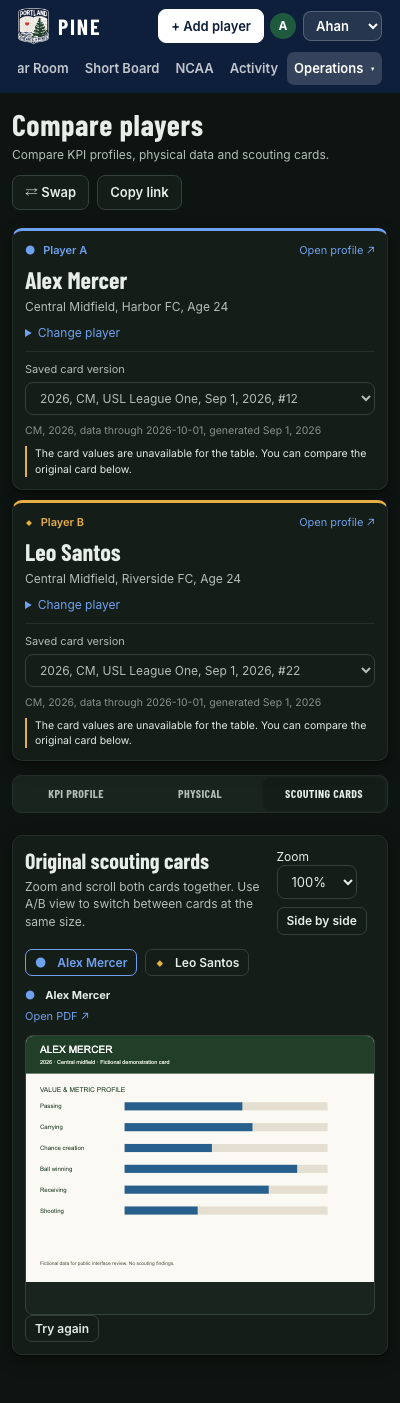
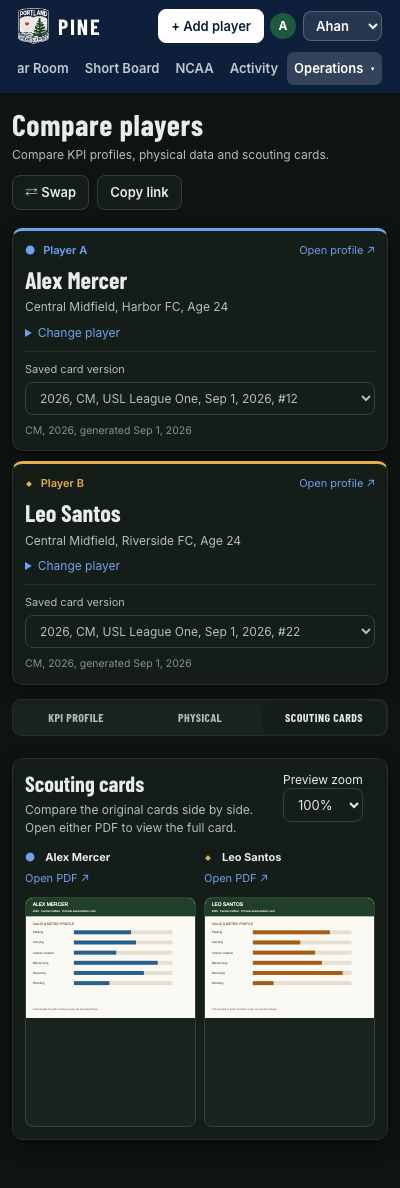
Keep scouting comparisons to original cards side by side

Changed region(s): [[0.0, 0.0, 1.0, 0.9655], [0.57, 0.4049, 0.6, 0.4672]]

diff --git a/public/styles.css b/public/styles.css
@@ -1264,13 +1264,12 @@ details[open] > summary .kpi-chev { transform: rotate(45deg); }
 .cmp-card-caption { display: flex; align-items: center; gap: 5px; margin-bottom: 10px; font-size: 12px; }
 .cmp-card-caption a { margin-left: auto; font-size: 11px; }
 .cmp-card-scroll { overflow: auto; height: 400px; border: 1px solid var(--line-2); border-radius: 8px; background: var(--surface-2); }
+.cmp-card-scroll iframe { display: block; width: 100%; height: 100%; border: 0; background: var(--surface); }
+.cmp-card-preview { min-width: 0; }
+.cmp-card-caption b { overflow-wrap: anywhere; }
 .cmp-card-scroll img { width: var(--cmp-zoom); max-width: none; display: block; }
 .cmp-card-unavailable { padding: 25px; color: var(--ink-2); font-size: 12px; }
 .cmp-card-viewer .row { font-size: 12px; }
-.cmp-card-flip { display: flex; gap: 8px; margin-bottom: 12px; }
-.cmp-card-flip button[aria-pressed=true] { border-color: var(--cmp-color); color: var(--cmp-color); }
-.cmp-flip-mode .cmp-card-pair { grid-template-columns: minmax(0, 1fr); }
-.cmp-flip-mode .cmp-card-scroll { height: 650px; }
 @media (max-width: 1000px) {
   .cmp-row { grid-template-columns: minmax(135px, 1fr) 68px 68px minmax(115px, 1fr) 86px 12px; gap: 10px; }
   .cmp-context { grid-template-columns: minmax(0, 1fr); }
@@ -1313,74 +1312,6 @@ details[open] > summary .kpi-chev { transform: rotate(45deg); }
   .cmp-card-caption { flex-wrap: wrap; font-size: 11px; }
   .cmp-card-caption a { width: 100%; margin-left: 0; }
   .cmp-card-scroll { height: 230px; }
-  .cmp-flip-mode .cmp-card-scroll { height: min(440px, 70vw); }
 }
 
 @media (max-width: 450px) { .cmp-context { grid-template-columns: minmax(0, 1fr); } }
-
-/* Saved scouting cards keep their value matrix and whole scouting sections. */
-.cmp-scout-legend { display: grid; grid-template-columns: repeat(2, minmax(0, 1fr)); gap: 12px; background: var(--surface); padding: 10px 12px; border: 1px solid var(--line); border-radius: 7px; margin-bottom: 14px; z-index: 4; }
-.cmp-scout-card-sections > .cmp-scout-legend { position: sticky; top: var(--cmp-top, 54px); }
-.cmp-scout-legend small { display: inline; color: var(--muted); margin-left: 8px; font-size: 11px; }
-.cmp-scout-value-block { padding: 14px; background: var(--surface-2); border: 1px solid var(--line); border-top: 3px solid var(--pine); border-radius: 8px; margin-bottom: 18px; }
-.cmp-scout-values { border-collapse: separate; border-spacing: 8px; width: 100%; table-layout: fixed; }
-.cmp-scout-values th { font: 600 17px/1.2 var(--disp); text-align: center; color: var(--ink-2); padding: 0 0 5px; }
-.cmp-scout-values th:first-child { width: 100px; text-align: left; color: var(--ink); }
-.cmp-scout-values tbody th { font-size: 22px; }
-.cmp-scout-values td { text-align: center; vertical-align: middle; border: 1px solid var(--line); border-radius: 7px; background: var(--surface); padding: 10px; }
-.cmp-scout-value-pair { display: grid; grid-template-columns: repeat(2, minmax(0, 1fr)); gap: 10px; }
-.cmp-scout-score { display: block; text-align: center; min-width: 0; }
-.cmp-scout-score-label { display: block; font-size: 10px; color: var(--cmp-color); margin-bottom: 3px; }
-.cmp-scout-score .cmp-symbol { margin-right: 2px; }
-.cmp-scout-score .cmp-value { font-size: 25px; }
-.cmp-scout-score .cmp-na { font-size: 10px; overflow-wrap: anywhere; }
-.cmp-scout-value-block .cmp-gap { position: static; margin-top: 8px; font-size: 11px; padding: 3px 7px; }
-.cmp-scout-additional { display: flex; flex-wrap: wrap; gap: 12px; padding: 10px 8px 0; }
-.cmp-scout-additional > div { display: flex; align-items: center; gap: 16px; font-size: 12px; }
-.cmp-scout-additional h3 { font-size: 12px; font-weight: 600; }
-.cmp-scout-additional .cmp-scout-value-pair { min-width: 120px; }
-.cmp-scout-additional .cmp-gap { margin-top: 0; }
-.cmp-scout-sections { columns: 2; column-gap: 16px; }
-.cmp-scout-section { break-inside: avoid; margin-bottom: 16px; border: 1px solid var(--line); border-radius: 8px; overflow: hidden; min-width: 0; }
-.cmp-scout-section h3 { font: 600 20px/1.25 var(--disp); padding: 12px; background: var(--surface-2); border-bottom: 1px solid var(--line); }
-.cmp-scout-metric, .cmp-scout-section-columns { display: grid; grid-template-columns: minmax(100px, 1fr) 82px 82px 78px; gap: 10px; align-items: center; padding: 12px; }
-.cmp-scout-section-columns { font-size: 11px; color: var(--ink-2); border-bottom: 1px solid var(--line); padding-top: 8px; padding-bottom: 8px; text-align: center; }
-.cmp-scout-section-columns > span:first-child { text-align: left; }
-.cmp-scout-section-columns small { display: block; font-size: 9px; color: var(--muted); margin-top: 3px; }
-.cmp-scout-metric { border-bottom: 1px solid var(--line); }
-.cmp-scout-metric:last-child { border-bottom: 0; }
-.cmp-scout-metric .cmp-metric b { font-size: 12px; }
-.cmp-scout-metric .cmp-value { font-size: 23px; }
-.cmp-scout-metric .cmp-gap { position: static; font-size: 11px; padding: 4px 6px; }
-.cmp-scout-metric .cmp-scout-score-label { display: none; }
-.cmp-scout-mini { display: block; height: 5px; margin: 7px 3px 0; border-radius: 2px; background: var(--none-bg); }
-.cmp-scout-mini i { display: block; height: 100%; border-radius: 2px; background: var(--cmp-color); opacity: .7; }
-@media (max-width: 1100px) {
-  .cmp-scout-metric, .cmp-scout-section-columns { grid-template-columns: minmax(80px, 1fr) 58px 58px 66px; gap: 8px; }
-}
-@media (max-width: 850px) {
-  .cmp-scout-sections { columns: 1; }
-  .cmp-scout-metric, .cmp-scout-section-columns { grid-template-columns: minmax(100px, 1fr) 82px 82px 78px; }
-}
-@media (max-width: 700px) {
-  .cmp-scout-legend { padding: 10px; gap: 8px; }
-  .cmp-scout-legend small { display: block; margin-left: 0; margin-top: 3px; }
-  .cmp-scout-value-block { padding: 8px 2px; }
-  .cmp-scout-values { border-spacing: 4px 8px; }
-  .cmp-scout-values th { font-size: 15px; }
-  .cmp-scout-values th:first-child { width: 48px; }
-  .cmp-scout-values tbody th { font-size: 18px; }
-  .cmp-scout-values td { padding: 8px 3px; }
-  .cmp-scout-value-pair { gap: 3px; }
-  .cmp-scout-value-block .cmp-value { font-size: 22px; }
-  .cmp-scout-value-block .cmp-gap { font-size: 10px; gap: 2px; padding: 3px 4px; }
-  .cmp-scout-score-label { font-size: 9px; }
-  .cmp-scout-additional { padding: 8px 6px 2px; }
-  .cmp-scout-additional > div { flex-wrap: wrap; gap: 8px; }
-  .cmp-scout-metric { position: relative; grid-template-columns: repeat(2, minmax(0, 1fr)); gap: 10px; }
-  .cmp-scout-metric .cmp-metric { grid-column: 1 / -1; padding-right: 80px; min-height: 22px; }
-  .cmp-scout-metric .cmp-gap { position: absolute; top: 12px; right: 12px; }
-  .cmp-scout-metric .cmp-scout-score-label { display: block; }
-  .cmp-scout-metric .cmp-scout-score { padding: 6px; background: color-mix(in srgb, var(--cmp-color) 5%, var(--surface)); border-radius: 6px; }
-  .cmp-scout-section-columns { display: none; }
-}

diff --git a/scripts/comparison.test.js b/scripts/comparison.test.js
@@ -1,16 +1,12 @@
 import test from 'node:test';
 import assert from 'node:assert/strict';
 import { parseComparison, comparisonPath, mergeRows, gap, orderRows, choosePair, kpiComparable, kpiRows,
-  physicalComparable, physicalRows, scoutingComparable, scoutingRows, scoutingSections } from '../public/comparison-data.js';
+  physicalComparable, physicalRows } from '../public/comparison-data.js';
 
 const metric = (id, percentile, value = 0) => ({ id, label: id, percentile, value, direction: 'higher' });
 const kpi = () => ({ position: 'MID', iteration: { id: 1916, season: '2026' }, benchmark_competitions: ['USL League One', 'USL Championship'], min_share_used: 5,
   phases: [{ id: 'build', name: 'On-Ball' }], categories: [{ name: 'Distribution', label: 'Passing', phase: 'build', percentile: 82,
     components: [{ metric: 'failed_passes', label: 'Failed passes', kind: 'mistake', inverted: true, value: 0, percentile: 90 }] }] });
-const snapshot = () => ({ data_as_of: '2026-10-01', render_input: { schema_version: 16, subject: { season: 2026, league: 'USL1', profiles: [{ group: 'CM',
-  percentiles: { IMPECT_SCORE_PXT: 0 }, grid: [{ metric: 'TEST', name: 'Passing', bucket: 'passing', direction: 'lower', value: 0, percentile: 90, rare: false },
-    { metric: 'RARE', name: 'Rare metric', bucket: 'shooting', direction: 'higher', value: 0, percentile: 99, rare: true }, { film: 'Watch film', name: 'Film' }] }] },
-  value: { PxT: ['IMPECT_SCORE_PXT'] }, grid: { source: '/source/metric_grid.yml', ledger: 'ledger.csv' }, provenance: { sha256: { '/source/metric_grid.yml': 'a'.repeat(64) } } } });
 
 test('comparison links round trip independent selections and encoded physical keys', () => {
   const state = { ids: [1, 2], tab: 'physical', sort: 'close', f0: 'A. Example|Harbor|USL1|2026', f1: 'name & club/2025', k0: '1916', p0: 'MID' };
@@ -18,6 +14,10 @@ test('comparison links round trip independent selections and encoded physical ke
   assert.deepEqual(parseComparison('7,7').ids, [7, null]);
   assert.deepEqual(parseComparison('bad,-2?tab=bad&sort=wrong').ids, [null, null]);
   assert.equal(parseComparison('1,2?tab=bad').tab, 'kpi');
+  const cards = parseComparison('1,2?tab=card&c0=11&c1=22&sort=gap');
+  assert.equal(cards.sort, 'phase');
+  assert.equal(cards.c0, '11'); assert.equal(cards.c1, '22');
+  assert.deepEqual(parseComparison(comparisonPath(cards).replace('#/compare/', '')), cards);
 });
 
 test('alignment uses exact source identity, preserves zeros and puts missing gaps last', () => {
@@ -63,58 +63,4 @@ test('physical metrics align by source ID across reordered metadata; differing o
   assert.equal(a[0].value, 0); assert.equal(a[1].percentile, null);
   assert.equal(physicalComparable(row, row), true);
   for (const changes of [{ league: 'MLSNP' }, { season: '2025' }, { grp: 'FB' }, { pool: 31 }, { pool: 5 }]) assert.equal(physicalComparable(row, { ...row, ...changes }), false);
-});
-
-test('scouting comparisons retain original values, suppress rare ranks and reject unsupported contexts', () => {
-  const a = snapshot(), b = snapshot();
-  assert.equal(scoutingComparable(a, b), true);
-  const rows = scoutingRows(a);
-  assert.equal(rows.length, 3); assert.equal(rows[0].percentile, 0); assert.equal(rows[1].value, 0);
-  assert.equal(rows[2].percentile, null); assert.equal(rows[2].rare, true);
-  for (const edit of [x => x.render_input.schema_version++, x => x.data_as_of = '2026-09-01', x => x.render_input.subject.league = 'USLC',
-    x => x.render_input.subject.profiles[0].group = 'W', x => x.render_input.grid.ledger = 'other.csv', x => x.render_input.provenance.sha256 = {}]) {
-    const other = snapshot(); edit(other); assert.equal(scoutingComparable(a, other), false);
-  }
-  const unknown = snapshot(); unknown.render_input.schema_version = 99;
-  assert.deepEqual(scoutingRows(unknown), []);
-  assert.equal(scoutingComparable(a, null), false);
-  const missing = snapshot(); delete missing.render_input.subject.league;
-  assert.equal(scoutingComparable(missing, structuredClone(missing)), false);
-  assert.equal(kpiComparable({}, {}), false);
-  assert.equal(physicalComparable({}, {}), false);
-});
-
-test('saved card value tiles keep their scoring system and phase, including an existing open play rank', () => {
-  const card = snapshot(), r = card.render_input;
-  r.value = { PxT: ['overall', 'attack', 'defend'], Packing: ['packing'] };
-  r.subject.profiles[0].percentiles = { overall: 0, attack: 82, defend: null, packing: 71, IMPECT_WITHOUT_FOULS_AND_SET_PIECES_SCORE_PXT: 42 };
-  const values = scoutingRows(card).filter(r => r.kind === 'value');
-  assert.deepEqual(values.map(r => [r.family, r.phase, r.percentile]), [
-    ['PxT', 'Overall', 0], ['PxT', 'Attack', 82], ['PxT', 'Defend', null], ['Packing', 'Overall', 71], ['PxT', 'Open play', 42],
-  ]);
-  delete r.subject.profiles[0].percentiles.IMPECT_WITHOUT_FOULS_AND_SET_PIECES_SCORE_PXT;
-  assert.equal(scoutingRows(card).filter(r => r.kind === 'value').length, 4, 'a missing source field does not create an extra tile');
-});
-
-test('card sections use position questions and retain every paired metric, including unfamiliar IDs', () => {
-  const row = (metric, group) => ({ id: `metric:${metric}`, kind: 'metric', label: metric, group,
-    a: { value: 0, percentile: 0 }, b: { value: null, percentile: null } });
-  const rows = [row('CORNER_SCORE', 'Set pieces'), row('BALL_LOSS_ADDED_OPPONENTS', 'Passing'), row('PXT_PASS_PRO', 'Passing'),
-    row('IMPECT_SCORE_PACKING', 'Overall'), row('SUCCESSFUL_PASSES', 'Passing'), row('UNFAMILIAR', 'Carrying')];
-  const original = JSON.stringify(rows), sections = scoutingSections(rows, ['CM', 'CM']);
-  assert.deepEqual(sections.map(s => s.label), ['Overall contribution', 'Can he connect play across midfield?',
-    'Can he progress through pressure?', 'Does he manage possession responsibly?', 'Set-piece delivery', 'Carrying']);
-  const all = sections.flatMap(s => s.rows);
-  assert.equal(all.length, rows.length);
-  assert.equal(new Set(all.map(r => r.id)).size, rows.length);
-  for (const r of rows) assert.equal(all.find(v => v.id === r.id), r, 'layout keeps the original paired values');
-  assert.equal(JSON.stringify(rows), original);
-});
-
-test('different or unknown card positions retain the saved section labels', () => {
-  const rows = [{ id: 'metric:PXT_PASS_PRO', kind: 'metric', group: 'Passing' }, { id: 'metric:BALL_WIN_NUMBER', kind: 'metric', group: 'Defending' }];
-  for (const positions of [['CM', 'FB'], ['unknown', 'unknown'], []]) {
-    assert.deepEqual(scoutingSections(rows, positions).map(s => s.label), ['Passing', 'Defending']);
-    assert.deepEqual(scoutingSections(rows, positions).flatMap(s => s.rows), rows);
-  }
 });

diff --git a/public/comparison-data.js b/public/comparison-data.js
@@ -1,5 +1,3 @@
-import { cardQuestions } from './scouting-card-sections.js';
-
 // Presentation only: align existing values by source IDs; never re-score players.
 export const finite = v => typeof v === 'number' && Number.isFinite(v);
 export const pct = v => finite(v) && v >= 0 && v <= 100 ? v : null;
@@ -13,6 +11,7 @@ export function parseComparison(arg = '') {
   for (const key of keys) if (params.has(key)) state[key] = params.get(key);
   if (!['kpi', 'physical', 'card'].includes(state.tab)) state.tab = 'kpi';
   if (!['phase', 'gap', 'close'].includes(state.sort)) state.sort = 'phase';
+  if (state.tab === 'card') state.sort = 'phase';
   return state;
 }
 export function comparisonPath(state) {
@@ -81,53 +80,4 @@ export function physicalRows(data, row, groups = []) {
   }));
   const order = [...groups.map(([g]) => g), 'Other physical metrics'];
   return result.sort((a, b) => order.indexOf(a.group) - order.indexOf(b.group));
-}
-export function scoutingRows(envelope) {
-  const r = envelope?.render_input, profile = r?.subject?.profiles?.[0];
-  if (r?.schema_version !== 16 || !profile) return [];
-  const tiles = Object.entries(r.value || {}).flatMap(([family, metrics]) => metrics.map((metric, i) => ({
-    id: `tile:${metric}`, label: `${family}, ${['Overall', 'Attack', 'Defend'][i] || metric}`, group: 'Value',
-    kind: 'value', family, phase: ['Overall', 'Attack', 'Defend'][i] || metric,
-    percentile: pct(profile.percentiles?.[metric]), direction: 'higher',
-  })));
-  const openPlay = 'IMPECT_WITHOUT_FOULS_AND_SET_PIECES_SCORE_PXT';
-  if (Object.hasOwn(profile.percentiles || {}, openPlay)) tiles.push({ id: `tile:${openPlay}`, label: 'Open play PxT',
-    group: 'Value', kind: 'value', family: 'PxT', phase: 'Open play', percentile: pct(profile.percentiles[openPlay]), direction: 'higher' });
-  const names = { overall: 'Overall', passing: 'Passing', receiving: 'Receiving', carrying: 'Carrying', shooting: 'Shooting', defending: 'Defending', set_pieces: 'Set pieces' };
-  return [...tiles, ...(profile.grid || []).filter(m => m.metric && !m.film).map(m => ({
-    id: `metric:${m.metric}`, label: m.name || m.short, group: names[m.bucket] || m.bucket || 'Other metrics', kind: 'metric', code: m.code,
-    value: m.value, percentile: m.rare ? null : pct(m.percentile), direction: m.direction,
-    note: m.rare ? 'The action is rare for the position and has no percentile.' : m.code === 'D' ? 'The metric describes playing style or how often actions occur.' : m.direction === 'lower' ? 'Lower values are better, and percentiles account for that.' : '',
-    rare: m.rare,
-  }))];
-}
-// Organize both players together. Different position groups keep the saved bucket labels.
-export function scoutingSections(rows, positions = []) {
-  const groups = [...new Set(positions.filter(Boolean))], questions = groups.length === 1 ? cardQuestions[groups[0]] || [] : [];
-  const remaining = new Map(rows.filter(r => r.kind !== 'value').map(r => [r.id, r]));
-  const sections = [];
-  const take = (label, ids) => {
-    const found = ids.map(id => remaining.get(`metric:${id}`)).filter(Boolean);
-    for (const r of found) remaining.delete(r.id);
-    if (found.length) sections.push({ label, rows: found });
-  };
-  if (questions.length) {
-    take('Overall contribution', ['IMPECT_SCORE_PACKING']);
-    for (const q of questions) take(q.label, q.metrics);
-    take('Set-piece delivery', ['CORNER_SCORE', 'FREE_KICK_SCORE']);
-  }
-  for (const label of new Set([...remaining.values()].map(r => r.group))) {
-    sections.push({ label, rows: [...remaining.values()].filter(r => r.group === label) });
-  }
-  return sections;
-}
-function gridHash(r) {
-  const hashes = r?.provenance?.sha256 || {};
-  return hashes[r?.grid?.source] || null;
-}
-export function scoutingComparable(a, b) {
-  const x = a?.render_input, y = b?.render_input;
-  return !!(x?.schema_version === 16 && y?.schema_version === 16 && x.subject?.profiles?.[0]?.group && x.subject.profiles[0].group === y.subject?.profiles?.[0]?.group && x.subject.season != null && x.subject.league &&
-    x.subject?.season === y.subject?.season && x.subject?.league === y.subject?.league &&
-    a.data_as_of && a.data_as_of === b.data_as_of && gridHash(x) && gridHash(x) === gridHash(y) && x.grid?.ledger && x.grid.ledger === y.grid?.ledger);
 }

diff --git a/src/server.js b/src/server.js
@@ -1420,7 +1420,6 @@ const ASSET_VERSION = createHash("sha1")
   .update(readFileSync(join(PUBLIC_DIR, "app.js")))
   .update(readFileSync(join(PUBLIC_DIR, "compare.js")))
   .update(readFileSync(join(PUBLIC_DIR, "comparison-data.js")))
-  .update(readFileSync(join(PUBLIC_DIR, "scouting-card-sections.js")))
   .update(readFileSync(join(PUBLIC_DIR, "styles.css")))
   .digest("hex")
   .slice(0, 8);

diff --git a/README.md b/README.md
@@ -398,15 +398,14 @@ syncs leave the signing status alone.
   Every version is kept and any signed-in staff member can open it. One card per player can be in progress, and at most 30 are
   requested across PINE per 24 hours.
 - **Compare players** (`#/compare`): open from Operations or **Compare with…** on a player profile.
-  Compare KPI profiles, physical data and saved scouting cards with adjacent player values, paired bars on a shared scale from 0 to 100,
+  Compare KPI profiles and physical data with adjacent player values, paired bars on a shared scale from 0 to 100,
   and badges showing the percentile difference. Use the buttons to sort by section, largest differences or closest values,
   and open KPI categories to see their metrics. Player names stay visible as you scroll, and phone layouts keep player controls on separate rows.
-  You can choose each player's season, position, physical data and saved card separately, and share your selections by copying the link.
+  You can choose each player's season, position and physical data separately, and share your selections by copying the link.
   Percentile gaps and sorting by difference are unavailable when the comparison groups differ.
-  The scouting comparison uses saved card data in render schema 16. PxT and Packing appear in an Overall, Attack and Defend matrix,
-  followed by whole scouting sections in two columns. Each section uses the card's questions for the selected position.
-  Different or unknown positions keep the saved section labels. You can also compare the original cards with linked zoom and scrolling,
-  side by side or in A/B view, and open their PDFs. The comparison page uses existing data without creating scores or requesting new cards.
+  The scouting tab shows the original cards side by side, with independent version selectors and PDF links.
+  Image previews have linked zoom and scrolling. Cards without an image preview show their PDF directly.
+  The comparison page uses existing data without creating scores or requesting new cards.
 - **Structured scouting cards**: complete renderer inputs can be stored as compressed JSON alongside each PDF, bound to its exact PDF bytes. See [snapshot storage, worker contract and backfill](docs/card-snapshots.md).
 - **Pitch maps**: a panel on the player page (Impect-linked players) under the player card. It shows the card's two
   activity maps (In attack, Defensive actions) for a season and position, with up to three metrics per map chosen
@@ -537,8 +536,3 @@ Staff notes, verdicts, decisions, board ranks, and account data are excluded.
 The endpoint only reads the database and sends `Cache-Control: no-store`.
 
 To review the comparison page with fictional players, run `node scripts/preview-comparison.mjs` and open the printed URL. The preview uses a temporary database and demo data, with provider access disabled. Screenshots for desktop and phone in light and dark mode are in `docs/screenshots/comparison/`.
-
-The scouting comparison's display sections are in `public/scouting-card-sections.js`.
-The file copies question headings and metric IDs from Hearts of Pine's `data/reference/metric_grid.yml`,
-with the source commit recorded in its header. Update the display sections when the card layout changes.
-Metrics absent from the display sections remain under their saved section labels, and all values and percentiles come from the saved cards.
